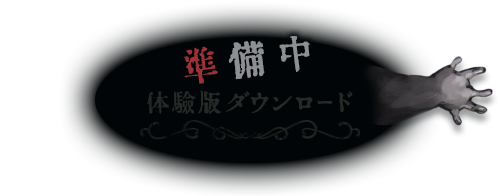
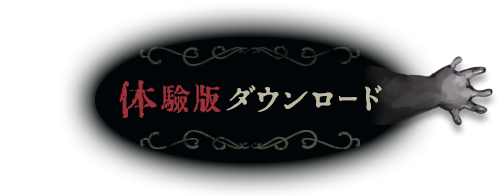
update: to show koishibow taikenban zip

diff --git a/koishibow/footer1.html b/koishibow/footer1.html
@@ -3,7 +3,7 @@
             <dt>本タイトルは東方Project二次創作作品です</dt>
             <dt>ジャンル</dt><dd>：2Dホラー探索アドベンチャー</dd>
             <dt>対応OS</dt><dd>：Windows Vista/7/8/10<br>　Mac OS X 以降</dd>
-            <dt>体験版公開日</dt><dd>：2017/11/12(日) <a href="http://digigame-expo.org/" target="_blank">デジゲー博</a>B-08ab<br>「ひまわり鎮痛剤×Ridil」</dd>
-            <dt>ダウンロード</dt><dd>：準備中</dd>
+                <dt>体験版公開日</dt><dd>：2017/11/12(日) <a href="http://digigame-expo.org/" target="_blank">デジゲー博</a>B-08ab<br>　2017/11/20(月) Webサイト</dd>
+            <dt>ダウンロード</dt><dd>：<a href="http://3rdeye.sai-chan.com/taikenban.zip" target="_blank">http://3rdeye.sai-chan.com/taikenban.zip</a></dd>
             </dl>
-            <img id="trydl" src="img/toppj_btn_trydl.png" alt="体験版ダウンロード">
+            <a href="http://3rdeye.sai-chan.com/taikenban.zip"><img id="trydl" src="img/toppj_btn_trydl.png" alt="体験版ダウンロード"></a>

diff --git a/koishibow/css/main.css b/koishibow/css/main.css
@@ -85,7 +85,6 @@ navi li:last-child{
     background-image: url(../img/mempj_bg_main.png);
 }
 #mem dl dt,dd{
-    width: 260px;
     margin: 0 auto;
     text-align: left;
 
